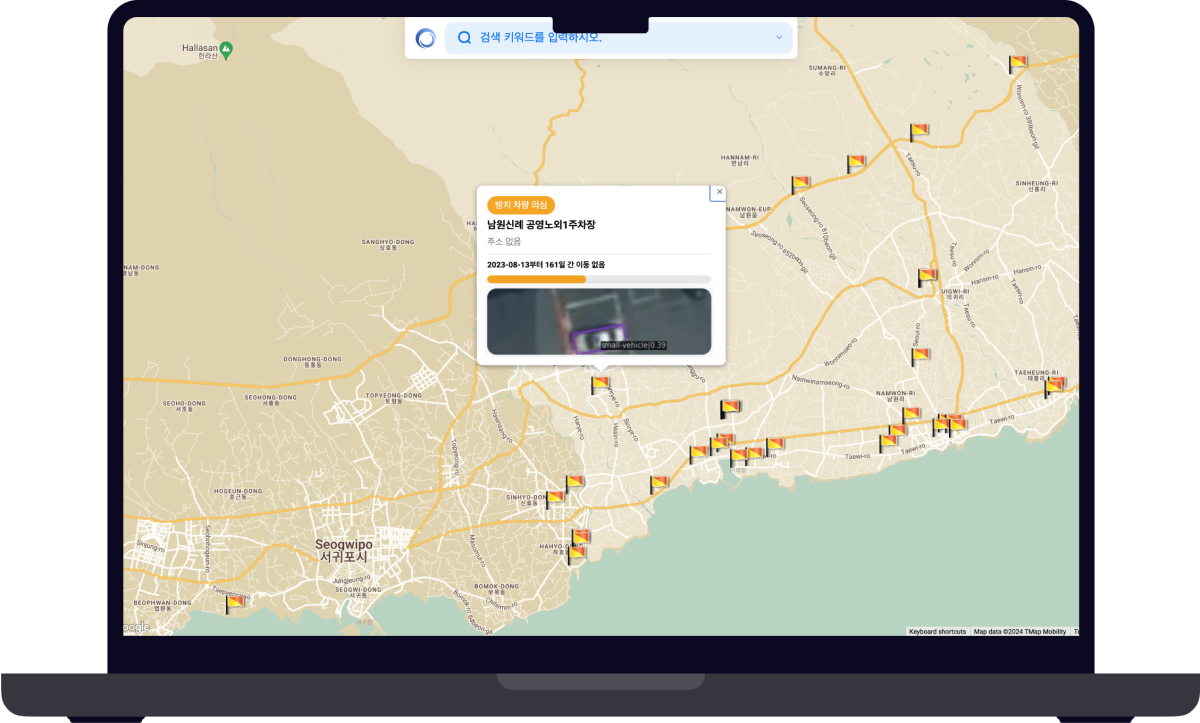
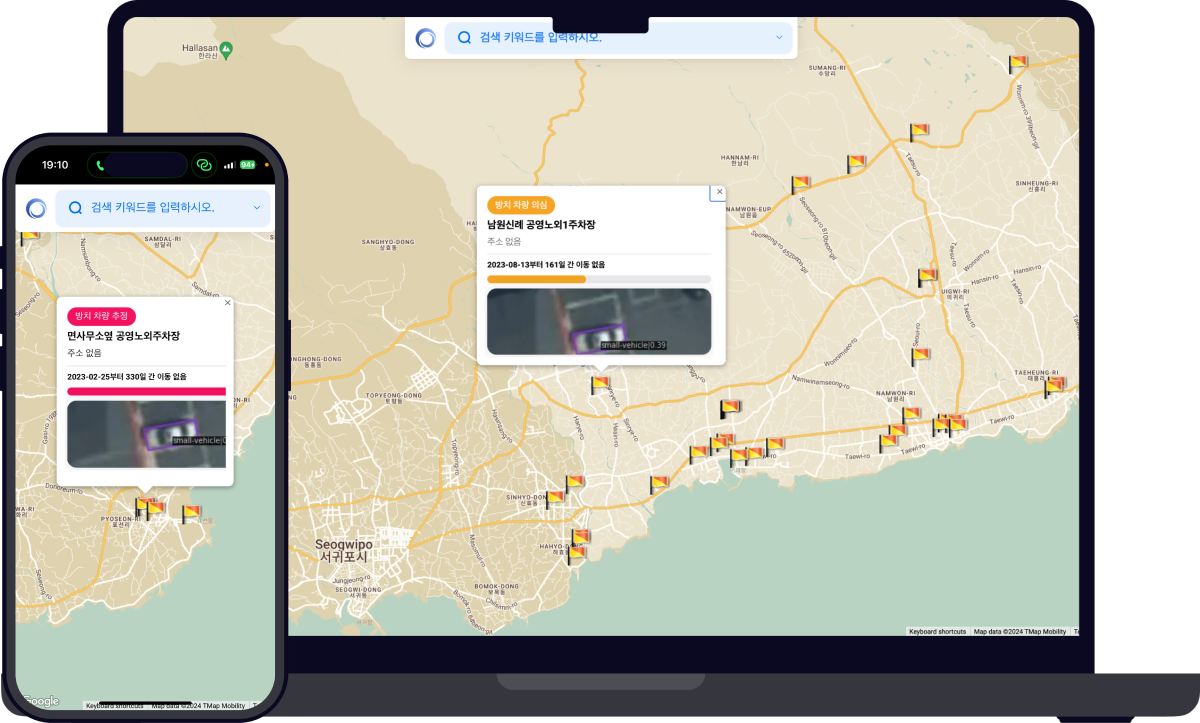
init

Changed region(s): [[0.0, 0.1826, 0.2467, 1.0]]

diff --git a/README_EN.md b/README_EN.md
@@ -1,0 +1,387 @@
+# Hello, BaDang
+
+<img src="./src/banner_ko.png"/>
+
+<p align="center">
+  <strong>제주 위성데이터를 활용한 장기방치차량 탐지 지능형 플랫폼</strong>
+  <br/>
+  <strong>Intelligent Platform for Long-Term Abandoned Vehicle Detection Utilizing Jeju Satellite Data</strong>
+  <br/>
+  <br/>
+
+  <a href='https://paperswithcode.com/task/image-super-resolution'>
+    <img src="https://img.shields.io/badge/Paperswithcode-Image%20Super%20Resolution-25c2a0?style=flat-square"/>
+  </a>
+  <a href='https://github.com/XPixelGroup/HAT'>
+    <img src="https://img.shields.io/badge/XPixelGroup-HAT-EF2D5E?style=flat-square"/>
+  </a>
+  <a href='https://github.com/xinntao/ESRGAN?tab=readme-ov-file'>
+    <img src="https://img.shields.io/badge/Xintao-ESRGAN-EF2D5E?style=flat-square"/>
+  </a>
+  <img src="https://img.shields.io/badge/Weights%20&%20Biases-dea500?style=flat-square&logo=weightsandbiases&logoColor=white&text=white"/>
+  </br>
+  
+  <a href='https://paperswithcode.com/task/object-detection-in-aerial-images'>
+    <img src="https://img.shields.io/badge/Paperswithcode-Object%20Detection%20In%20Aerial%20Images-25c2a0?style=flat-square"/>
+  </a>
+  <a href='https://github.com/open-mmlab/mmrotate'>
+    <img src="https://img.shields.io/badge/OpenMMLab-MMRotate-EF2D5E?style=flat-square"/>
+  </a>
+  <a href='https://github.com/ZFTurbo/Weighted-Boxes-Fusion'>
+    <img src="https://img.shields.io/badge/Ensemble-Weighted%20Boxes%20Fusion-EF2D5E?style=flat-square"/>
+  </a>
+  <br/>
+
+  
+  <img src="https://img.shields.io/badge/Next.js-000000?style=flat-square&logo=nextdotjs&logoColor=white"/>
+  <img src="https://img.shields.io/badge/PWA-5A0FC8?style=flat-square&logo=pwa&logoColor=white"/> 
+  <img src="https://img.shields.io/badge/Google%20Maps-4285F4?style=flat-square&logo=googlemaps&logoColor=white"/>
+  <img src="https://img.shields.io/badge/NestJS-E0234E?style=flat-square&logo=nestjs&logoColor=white"/>
+  <img src="https://img.shields.io/badge/FastAPI-009688?style=flat-square&logo=fastapi&logoColor=white"/>
+  <img src="https://img.shields.io/badge/MySQL-4479A1?style=flat-square&logo=mysql&logoColor=white"/>
+  <img src="https://img.shields.io/badge/Jenkins-D24939?style=flat-square&logo=jenkins&logoColor=white"/>
+  <img src="https://img.shields.io/badge/Docker-2496ED?style=flat-square&logo=docker&logoColor=white"/>
+  <img src="https://img.shields.io/badge/AWS-232F3E?style=flat-square&logo=amazonaws&logoColor=white"/>
+  <img src="https://img.shields.io/badge/Redis-DC382D?style=flat-square&logo=redis&logoColor=white"/>
+</p>
+<br/>
+<br/>
+  
+<p align="center">  
+  <strong>아래의 뱃지에서 프로토타입을 확인해보세요.<strong>
+  <br/>
+  <br/>
+  <a href='https://desirable-sea.vercel.app/'>
+    <img src="https://img.shields.io/badge/Product-Vercel-000000?style=flat-square"/>
+  </a>
+  <a href='https://goor.me/edkv2g6bKZt7nopy6'>
+    <img src="https://img.shields.io/badge/Model-goorm-ffffff?style=flat-square"/>
+  </a>
+  <a href='https://colab.research.google.com/drive/13-VZyx3LiYPRS8aw-AcMSBK0Z4--TF2j?usp=sharing'>
+    <img src="https://img.shields.io/badge/Tutorial-Google%20Colab-F9AB00?style=flat-square"/>
+  </a>
+</p>
+
+<br/>
+<br/>
+
+# 1. 프로젝트 개요
+
+본 아이디어는, 제주 위성데이터를 활용하고 컴퓨터 비전의 객체 인식 AI 기술을 적용하여, 제주 지역에서 장기적으로 주차되거나 방치되어 있는 차량을 탐지하고, 해당 정보를 유관 기관이 통합하여 관리할 수 있는 지능형 플랫폼을 연구 및 개발하는 것입니다.
+
+https://github.com/ziweek/desirable-sea/assets/99459331/4a7edb47-754c-47fd-8dab-7d2adbb045ec
+
+<table>
+  <tr>
+     <td>
+      <p align='center'>
+        해상도 이미지 모델
+      </p>
+    </td>
+    <td>
+      <p align='center'>
+        소형 객체 인식 모델링
+      </p>
+    </td>
+    <td>
+      <p align='center'>
+        프로덕트 웹페이지
+      </p>
+    </td>
+  </tr>
+   <tr>
+    <td>
+      <img src="./src/preview-super-image-resolution.png"/>
+    </td>
+    <td>
+      <img src="./src/preview-small-object-detection.png"/>
+    </td>
+    <td>
+      <img src="./src/preview-product-webpage.png"/>
+    </td>
+  </tr>
+</table>
+<br/>
+
+<br/>
+<br/>
+
+
+
+# 업데이트 로그
+
+<details>
+  <summary>
+    <b>
+      예선 제출물 (2024.01.03)
+    </b>
+  </summary>
+
+  - Product
+    - 프론트엔드 개발 완료. 메인 서버와 딥러닝 서버를 구분하여 개발 중에 있음.
+  - Model
+    - 아래의 프로덕트 > 모델링 > 추론 실행방법을 참고하여, 베이스라인을 기반으로 한 MVP 시연이 가능함.
+  
+      https://github.com/ziweek/desirable-sea/assets/99459331/a861922b-2486-45da-9844-30aa821bff28
+
+</details>
+
+<details>
+  <summary>
+    <b>본선 제출물 (2024.01.21)</b>
+  </summary>
+  
+  - Product
+    - 공공데이터 포털에서 제공하는 [제주특별자치도_주차장기본정보](https://www.data.go.kr/data/15099715/openapi.do) 사용함.
+      <img src="./src/public-api-data.png" width="100%"/>
+    - 서버와 데이터베이스 연동
+      <img src="./src/server-doc.png" width="100%"/>
+    - 반응형 UI 개발 완료 및 다크모드 지원
+      <img src="./src/darkmode.png" width="100%"/>
+    - PWA(Progressive Web Apps) 지원 ([설치방법](https://github.com/ziweek/desirable-sea/tree/main?tab=readme-ov-file#pwa-%EC%84%A4%EC%B9%98%EB%B0%A9%EB%B2%95))
+      <img src="./src/ui-mobile.png"/>
+  - Model
+    - 원본데이터에 Super Image Resolution 딥러닝 모델을 적용하여 해상도 개선
+      <img src="./src/comp-super-image-resolution.png" width="100%">
+    - 원본데이터에 대해 데이터 라벨링 진행
+
+      https://github.com/ziweek/desirable-sea/assets/99459331/2212ce20-bb1b-42f8-a97c-bebd22ce3fb3
+      
+    - 성능지표가 크게 개선됨. (mAP : 73.4 -> 78.9 )
+      <img src="./src/model-improvement.png" width="100%"/>
+    - 기존의 결과값에 비해 정확도 및 신뢰도가 대폭 상승함. (ship 30% -> small vehicle 91%)
+      <img src="./src/dif-precision.png" width="100%"/>
+    - 기존의 모델이 흰색 차량만을 식별했던 것과 달리 검은색, 검은색의 차량도 식별함.
+      <img src="./src/dif-color.png" width="100%"/>
+    - 건물의 그림자가 걸쳐진 차량도 식별함.
+      
+      <img src="./src/dif-shadow.png" width="100%"/>
+
+  - README
+    - CoLab 튜토리얼 추가 [![CoLab](https://img.shields.io/badge/Tutorial-Google%20Colab-F9AB00?style=flat-square)](https://colab.research.google.com/drive/13-VZyx3LiYPRS8aw-AcMSBK0Z4--TF2j?usp=sharing)
+      
+      
+</details>
+
+<br/>
+<br/>
+
+# 2. 프로덕트
+
+## 2.1 아키텍처
+
+<details >
+  <summary><b>아키텍처 구조</b></summary>
+  <img src="./src/service-architecture.png">
+</details>
+
+<details >
+  <summary><b>데이터 활용</b></summary>
+  <img src="./src/comp-super-image-resolution.png">
+
+  https://github.com/ziweek/desirable-sea/assets/99459331/2212ce20-bb1b-42f8-a97c-bebd22ce3fb3
+  
+</details>
+
+## 2.2 초고해상도 이미지 모델
+
+<details >
+  <summary><b>디렉토리 구조</b></summary>
+  
+```
+ESRGAN
+├── LR                      # Pytorch 모델을 저장하는 폴더입니다.
+│   └── demo.png            # MVP 시연에 사용될 데모 이미지입니다.
+├── models
+│   ├── ...
+│   └── RRDB_ESRGAN_x4.pth  # 베이스라인 관련 코드입니다.
+├── ...
+└── results
+    └── demo_rlt.png        # 모델링 결과로 출력되는 이미지입니다.
+```
+</details>
+
+<details >
+  <summary><b>초기 설치방법</b></summary>
+
+1. setup.sh 파일 만들기.
+2. 아래의 쉘스크립트 복사 후 붙여넣기.
+3. 터미널에서 setup.sh 실행
+
+
+```shell
+
+git clone https://github.com/xinntao/ESRGAN
+cd ESRGAN
+
+cd models
+wget --load-cookies ~/cookies.txt "https://docs.google.com/uc?export=download&confirm=$(wget --quiet --save-cookies ~/cookies.txt --keep-session-cookies --no-check-certificate 'https://docs.google.com/uc?export=download&id=1TPrz5QKd8DHHt1k8SRtm6tMiPjz_Qene' -O- | sed -rn 's/.*confirm=([0-9A-Za-z_]+).*/\1\n/p')&id=1TPrz5QKd8DHHt1k8SRtm6tMiPjz_Qene" -O RRDB_ESRGAN_x4.pth && rm -rf ~/cookies.txt
+cd ..
+
+cd LR
+wget https://raw.githubusercontent.com/ziweek/desirable-sea/main/src/demo.png
+cd ..
+```
+</details>
+
+
+<details >
+  <summary><b>추론 실행방법</b></summary>
+
+1. 아래의 쉘스크립트 복사 후 터미널에 붙여넣기.
+2. 터미널에서 실행하기.
+3. 동일 디렉토리 내에서 result-resolution.jpg 파일 확인하기.
+
+```shell
+python test.py
+```
+
+
+<img src="./src/result.png">
+
+</details>
+
+## 2.3 소형 객체 인식 모델
+
+<details >
+  <summary><b>디렉토리 구조</b></summary>
+  
+```
+desirable-sea
+├── checkpoints  # Pytorch 모델을 저장하는 폴더입니다.
+├── mmrotate     # 베이스라인 관련 코드입니다.
+│   ├── config
+│   ├── ...
+│   └── demo
+├── ...
+├── demo.png     # MVP 시연에 사용될 데모 이미지입니다.
+└── result.jpg   # 모델링 결과로 출력되는 이미지입니다.
+```
+</details>
+
+<details >
+  <summary><b>초기 설치방법</b></summary>
+
+1. setup.sh 파일 만들기.
+2. 아래의 쉘스크립트 복사 후 붙여넣기.
+3. 터미널에서 setup.sh 실행
+
+```shell
+# this code is written in Linux.
+
+sudo apt update
+sudo apt -y install libgl1-mesa-glx
+
+wget https://repo.anaconda.com/miniconda/Miniconda3-py37_4.9.2-Linux-x86_64.sh
+chmod +x Miniconda3-py37_4.9.2-Linux-x86_64.sh
+bash ./Miniconda3-py37_4.9.2-Linux-x86_64.sh -b -f -p /usr/local
+which conda
+conda --version
+
+pip install torch==1.7.0+cu110 torchvision==0.8.1+cu110 torchaudio==0.7.0 -f https://download.pytorch.org/whl/torch_stable.html
+pip install openmim --use-feature=2020-resolver
+mim install mmcv-full==1.5.3
+mim install mmdet==2.25.1
+
+git clone https://github.com/open-mmlab/mmrotate.git
+cd mmrotate
+pip install -r requirements/build.txt
+pip install -v -e .
+
+cd ..
+
+
+mkdir checkpoints
+cd checkpoints
+wget https://download.openmmlab.com/mmrotate/v0.1.0/redet/redet_re50_fpn_1x_dota_ms_rr_le90/redet_re50_fpn_1x_dota_ms_rr_le90-fc9217b5.pth
+cd ..
+
+wget https://raw.githubusercontent.com/ziweek/desirable-sea/main/src/demo.png
+
+```
+</details>
+
+
+<details >
+  <summary><b>추론 실행방법</b></summary>
+
+1. 아래의 쉘스크립트 복사 후 터미널에 붙여넣기.
+2. 터미널에서 실행하기.
+3. 동일 디렉토리 내에서 result.jpg 파일 확인하기.
+
+```shell
+python mmrotate/demo/image_demo.py demo.png mmrotate/configs/redet/redet_re50_refpn_1x_dota_ms_rr_le90.py checkpoints/redet_re50_fpn_1x_dota_ms_rr_le90-fc9217b5.pth --out-file result.jpg
+```
+
+
+<img src="./src/result.png">
+
+</details>
+
+## 2.4 웹페이지
+
+<details >
+  <summary><b>PWA 설치방법</b></summary>
+
+iOS에서 설치하는 방법:
+
+1. iOS 기기에서 Safari를 열고 PWA가 호스팅된 URL로 이동합니다.
+2. 화면 하단에 있는 공유 아이콘을 탭합니다.
+3. 화면을 아래로 스크롤하여 "홈 화면에 추가"를 탭합니다.
+4. 다음 화면에서 원하는 경우 앱의 이름을 변경할 수 있습니다. 우측 상단의 "추가"를 탭합니다.
+5. PWA 아이콘이 홈 화면에 나타납니다. 앱을 시작하려면 해당 아이콘을 탭합니다.
+
+Android에서 설치하는 방법:
+
+1. Android 기기에서 Chrome 브라우저를 열고 PWA가 호스팅된 URL로 이동합니다.
+2. 화면 우측 상단의 세 점 메뉴를 탭합니다.
+3. "홈 화면에 추가"를 탭합니다.
+4. 다음 화면에서 원하는 경우 앱의 이름을 변경할 수 있습니다. 우측 상단의 "추가"를 탭합니다.
+5. PWA 아이콘이 홈 화면에 나타납니다. 앱을 시작하려면 해당 아이콘을 탭합니다.
+
+</details>
+
+<br/>
+<br/>
+
+# 3. 팀원 소개
+
+<table>
+  <tr>
+    <td>
+      <p align='center'>김지욱</p>
+    </td>
+    <td>
+      <p align='center'>
+        <img src="https://drive.google.com/uc?export=view&id=1459-NPm4sC50nrQRdjTpmpz_eKunIi04" width=600/>
+        <a href='https://github.com/ziweek' target="_blank">
+          <img src="https://img.shields.io/badge/Github-000000?style=flat-square&logo=Github&logoColor=white"/>
+        </a>
+      </p>
+    </td>
+    <td>
+      <p align='left'>
+        이 프로젝트에 리더로 참여하여 먼저, 장기 방치 차량 문제에 직면해 이를 관리 하기 위한 지능형 플랫폼의 필요성을 깨닫게 되었습니다. Next.js, Google Map API, 그리고 FastAPI 등의 현대적인 기술들을 통합함으로써 우리의 솔루션은 효율적이고 사용자 친화적인 장기 방치 차량 관리를 실현하며, 위성데이터를 활용한 지능형 플랫폼의 발전에 일조하는 데 자부심을 느낄 수 있었습니다. 이 플랫폼은 제주의 차량문제를 혁신하고 미래 도시 계획에 기여하는 중요한 발판으로서의 역할을 할 것으로 기대됩니다.
+      </p>
+    </td>
+  </tr>
+  
+   <tr>
+    <td>
+      <p align='center'>부선웅</p>
+    </td>
+    <td>
+      <p align='center'>
+        <img src="https://drive.google.com/uc?export=view&id=1RXq9nhJ5xsv_tMCUZ4l6QwDeiyR1mtSD" width=600/>
+        <a href='https://github.com/Boo-seon-woong' target="_blank">
+          <img src="https://img.shields.io/badge/Github-000000?style=flat-square&logo=Github&logoColor=white"/>
+        </a>
+      </p>
+    </td>
+    <td>
+      <p align='left'>
+        CTO로 참여한 이 프로젝트는 최신 기술을 활용하여 제주의 장기 방치 차량 문제에 도전하는 흥미로운 경험이었습니다. 위성데이터와 딥러닝을 결합하여 차량을 정확하게 탐지하는 시스템을 개발하는 과정에서, 기술적인 도전과 혁신의 기회를 마주하게 되었습니다. 이 플랫폼은 미래 제주의 스마트한 지능형 시스템을 모색하는 데 있어 핵심적인 역할을 할 것으로 자부하고 있습니다.
+      </p>
+    </td>
+  </tr>
+</table>
